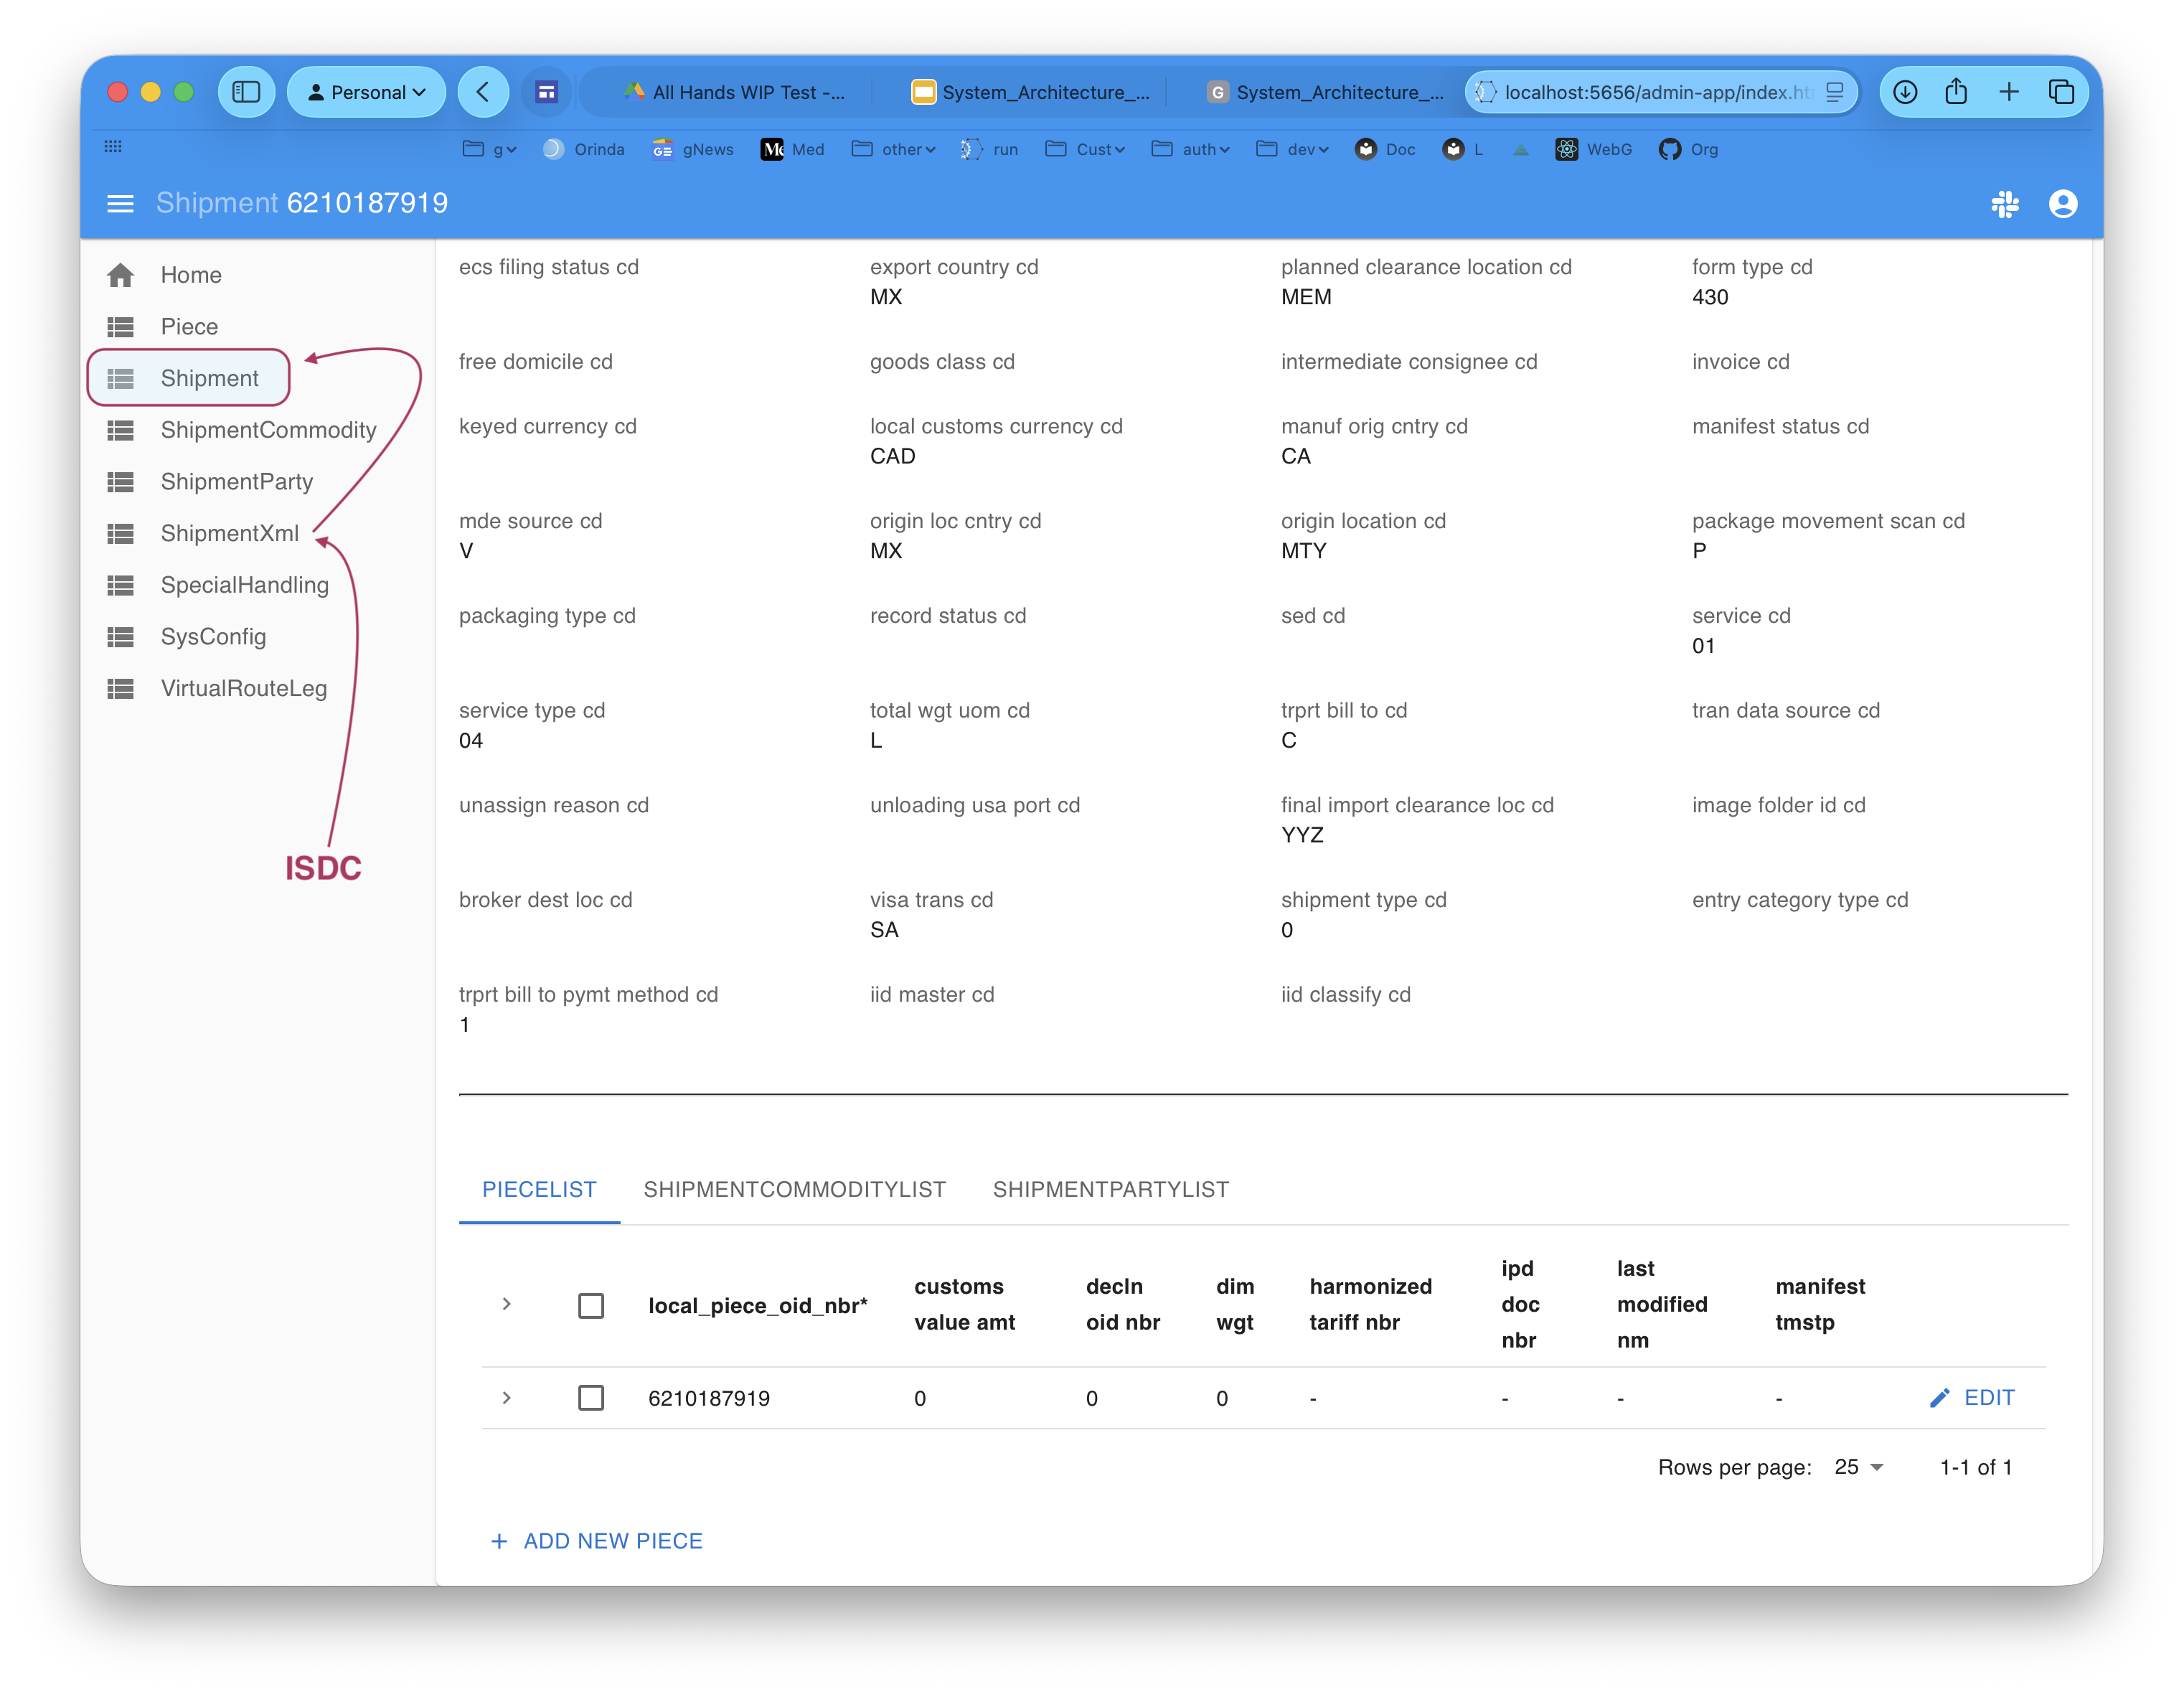
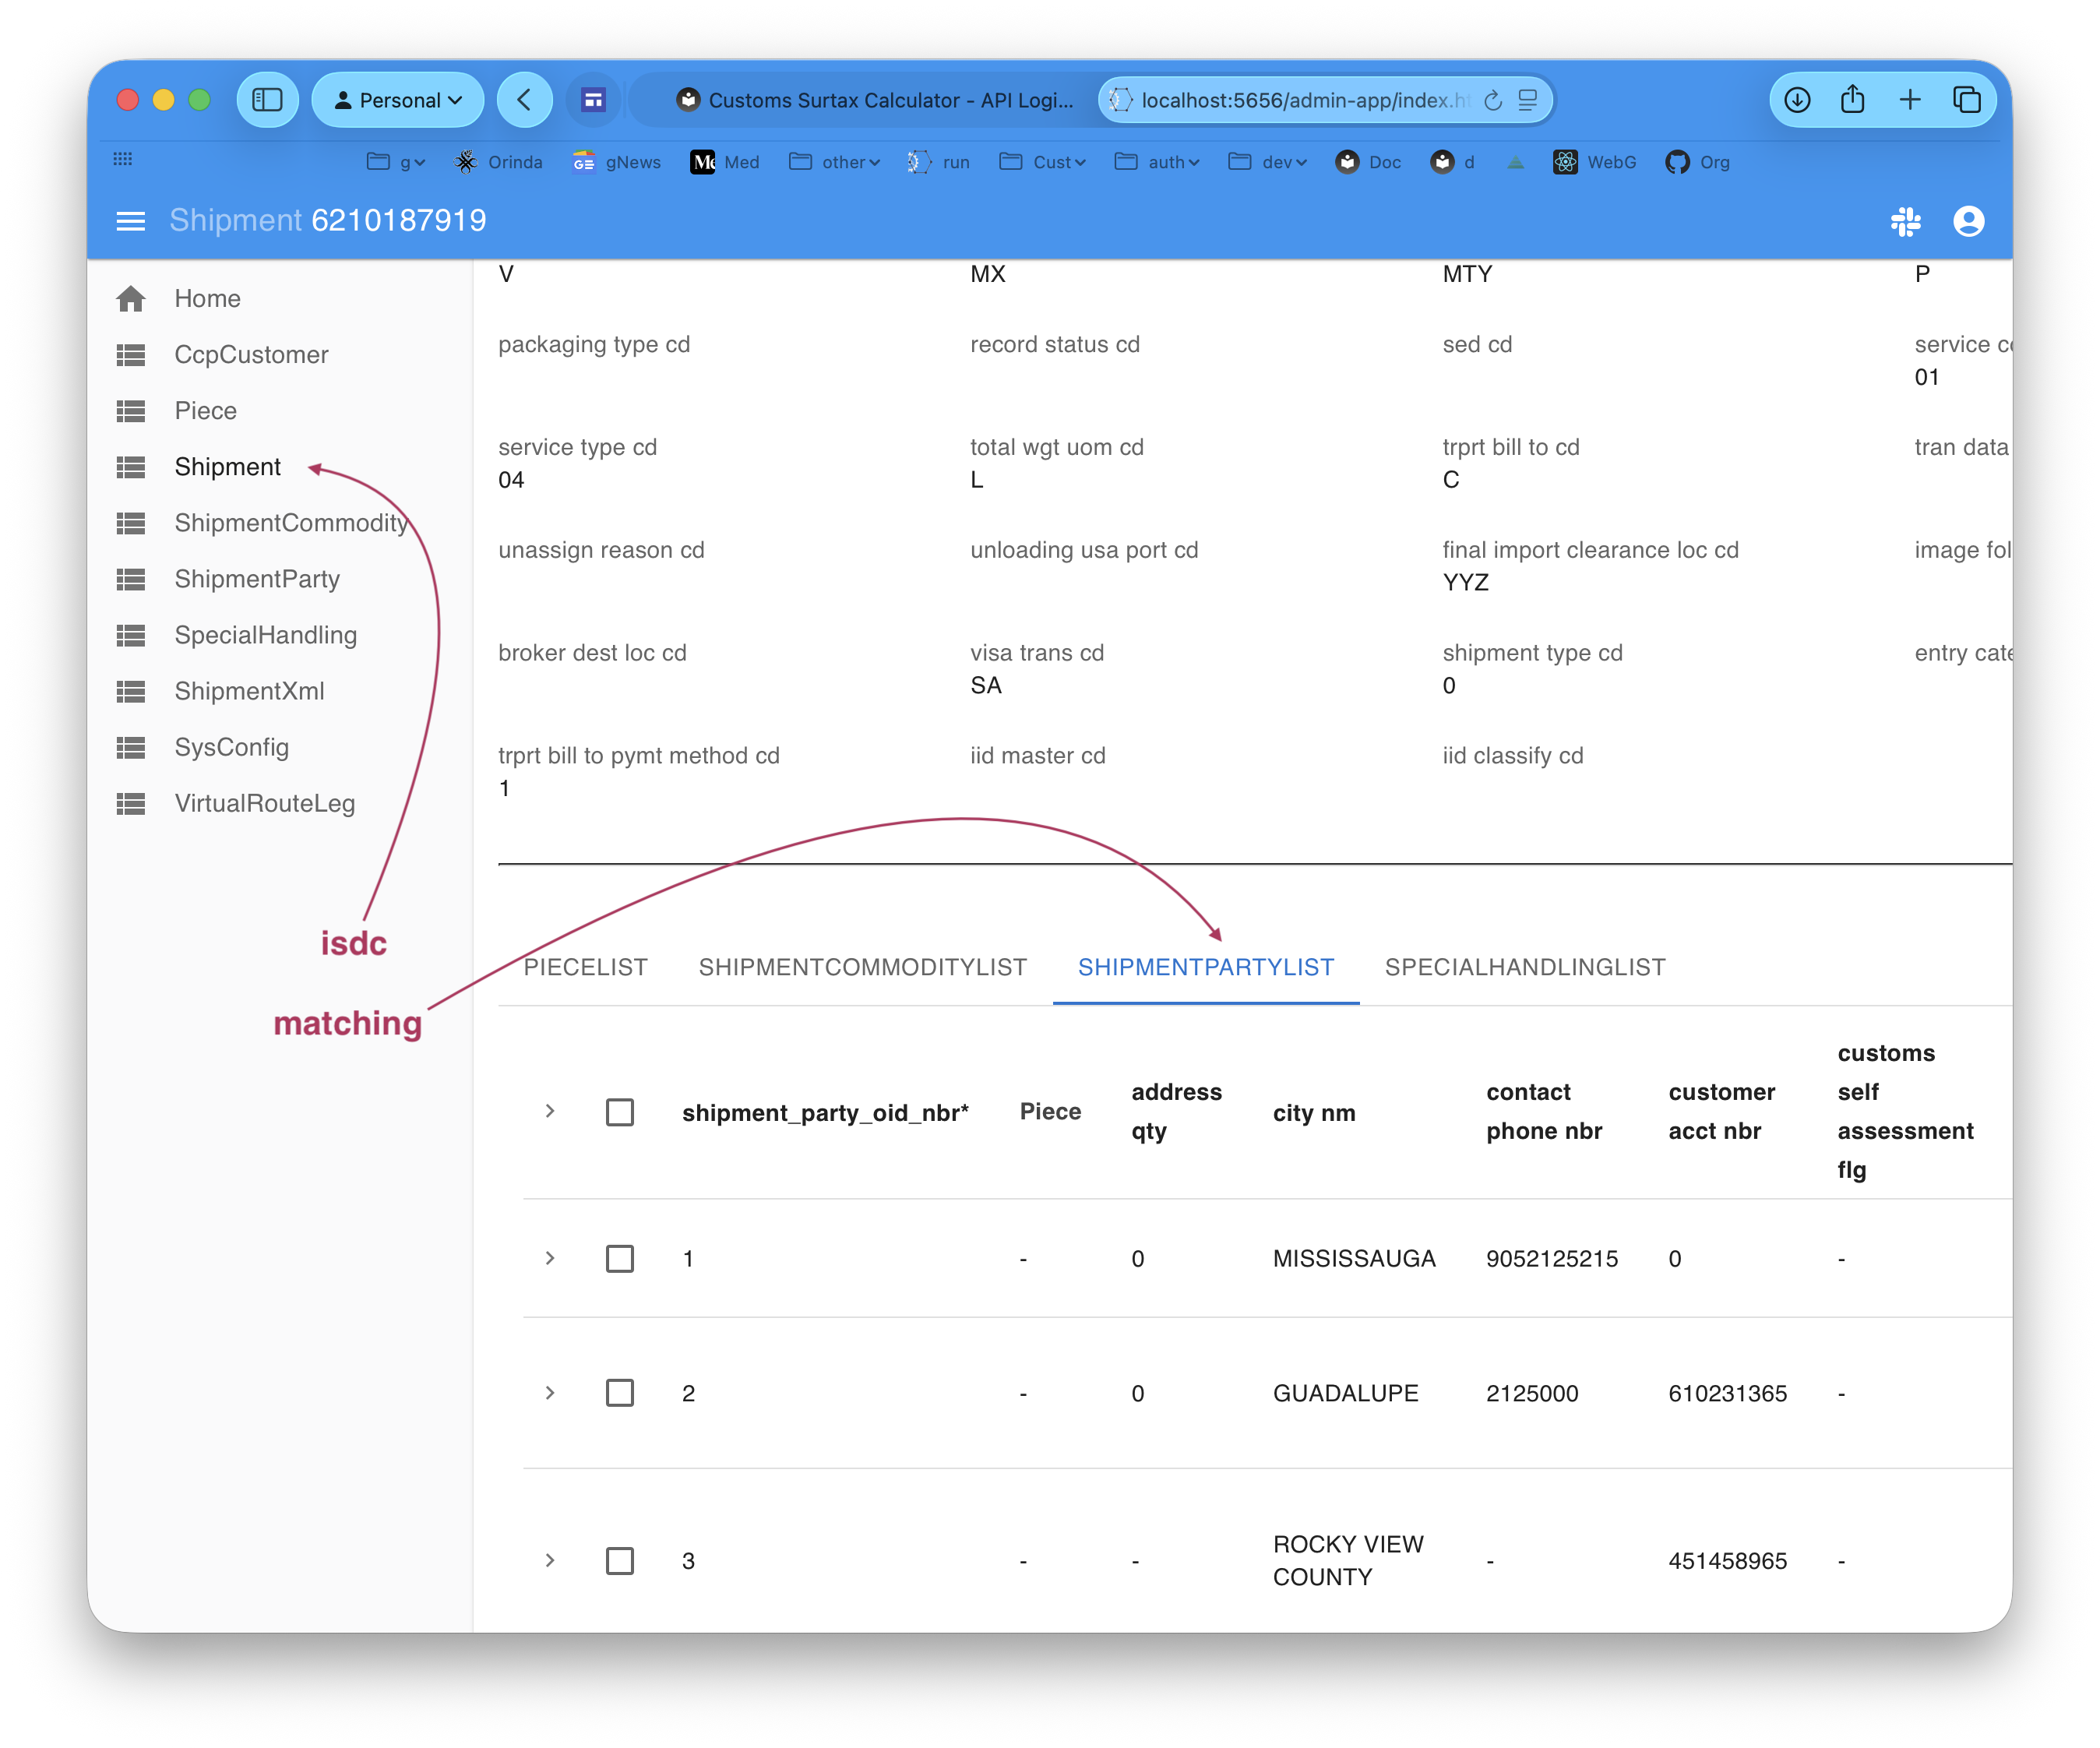
updated dgm

diff --git a/docs/Customs-readme.md b/docs/Customs-readme.md
@@ -1,8 +1,8 @@
 ---
-title: Customs Surtax Calculator
+title: Customs EAI
 notes: gold source is docs
 source: docs/Customs-readme.md
-version: 1.0 from docsite, for readme 2/16/2026
+version: 1.1 from docsite, for readme 4/15/2026
 ---
 
 # Customs Demo